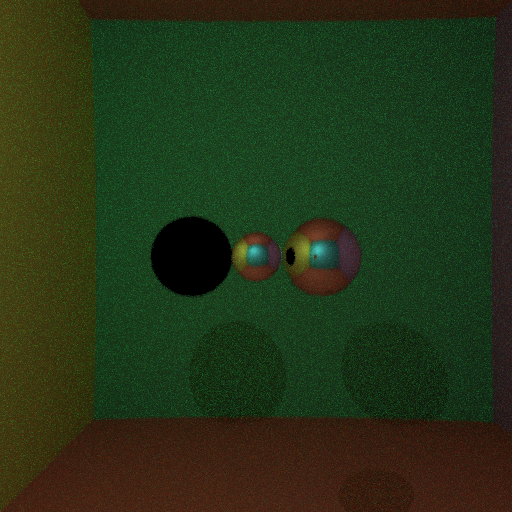
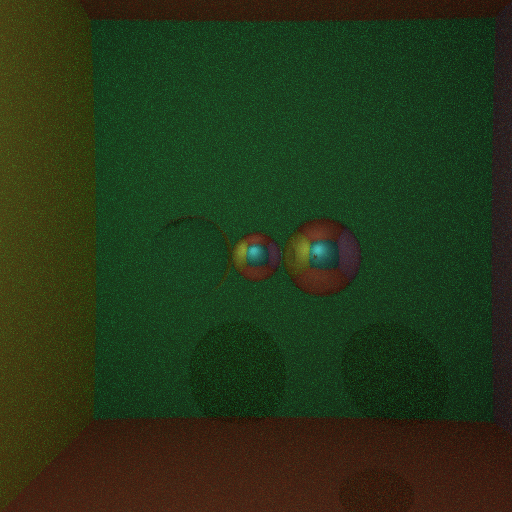
transparent solved

diff --git a/main.cpp b/main.cpp
@@ -171,6 +171,7 @@ public:
 					Ray rayR(P + 0.001 * N, R);
 					rayColor = getColor(rayR,nbrebonds-1);
 					}
+			
 			else if (spheres[object].transparent){
 				double nair = 1.;
 				double rapportN = (nair/spheres[object].nsphere);
@@ -178,9 +179,9 @@ public:
 				Vector Nused = N;
 				
 				if (incidence < 0){}
-				else {rapportN = 1./rapportN; Nused = - N;}
+				else {;rapportN = 1./rapportN; Nused = - N;}
 				
-				double racine =1 -  rapportN * rapportN * (1-dot(ray.u, Nused)*dot(ray.u, Nused)); 
+				double racine = 1 -  rapportN * rapportN * (1-dot(ray.u, Nused)*dot(ray.u, Nused)); 
 				if (racine < 0 and false){
 					Vector PL = L.V - P;
 					double distanceLum2 = PL.norm2();
@@ -198,7 +199,7 @@ public:
 				}
 				else if (racine > 0){
 					Vector R =  rapportN*ray.u - (rapportN * dot(ray.u,Nused) + sqrt(racine))*Nused;
-					Ray rayR(P + 0.001 * Nused, R);
+					Ray rayR(P - 0.001 * Nused, R);
 					rayColor = getColor(rayR,nbrebonds-1);
 				}
 			}
@@ -263,7 +264,7 @@ int main() {
     double tanoffov = tan(fov*0.5);
     
     Sphere s(Vector(8,0,0) , 5, Vector(1,1,1), true, true,12);
-    Sphere sbis(Vector(-8,0,0) , 5, Vector(1,1,1), false, true,1.2);
+    Sphere sbis(Vector(-8,-5,0) , 5, Vector(1,1,1), false, true,2.5);
     Sphere stris(Vector(0,0,20) , 2, Vector(1,0,1), true, false,1);
     
     
